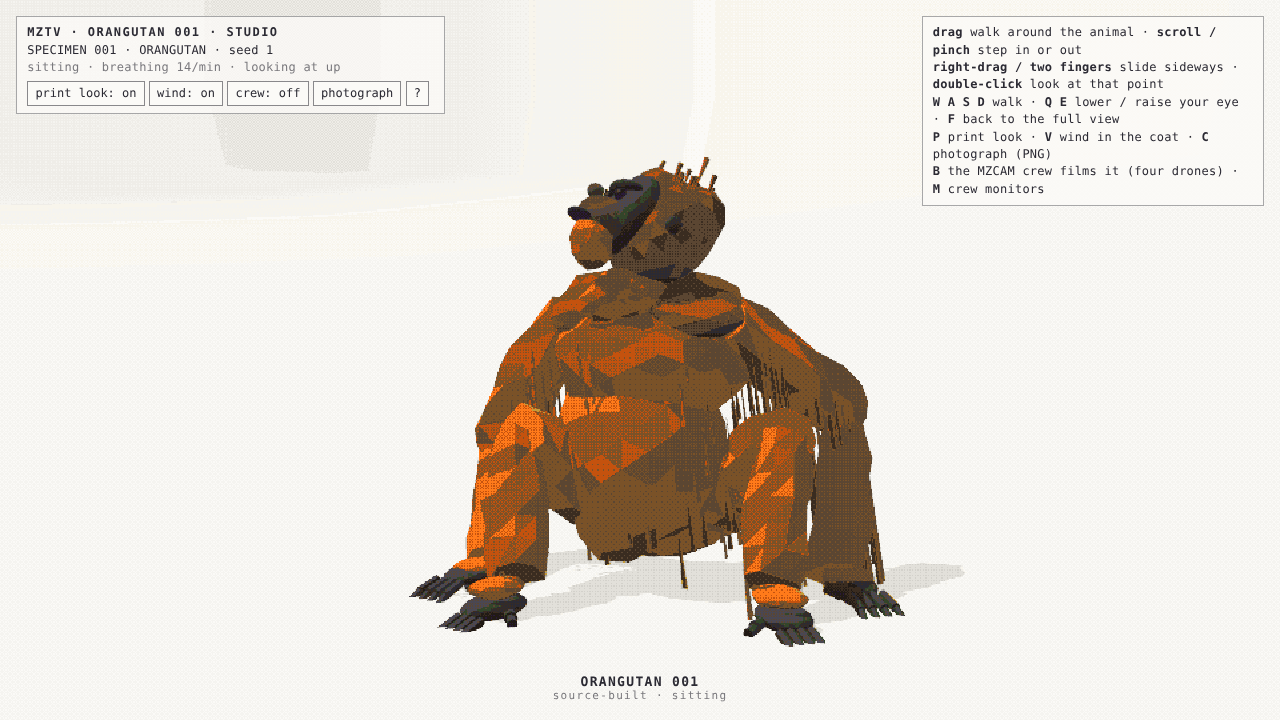
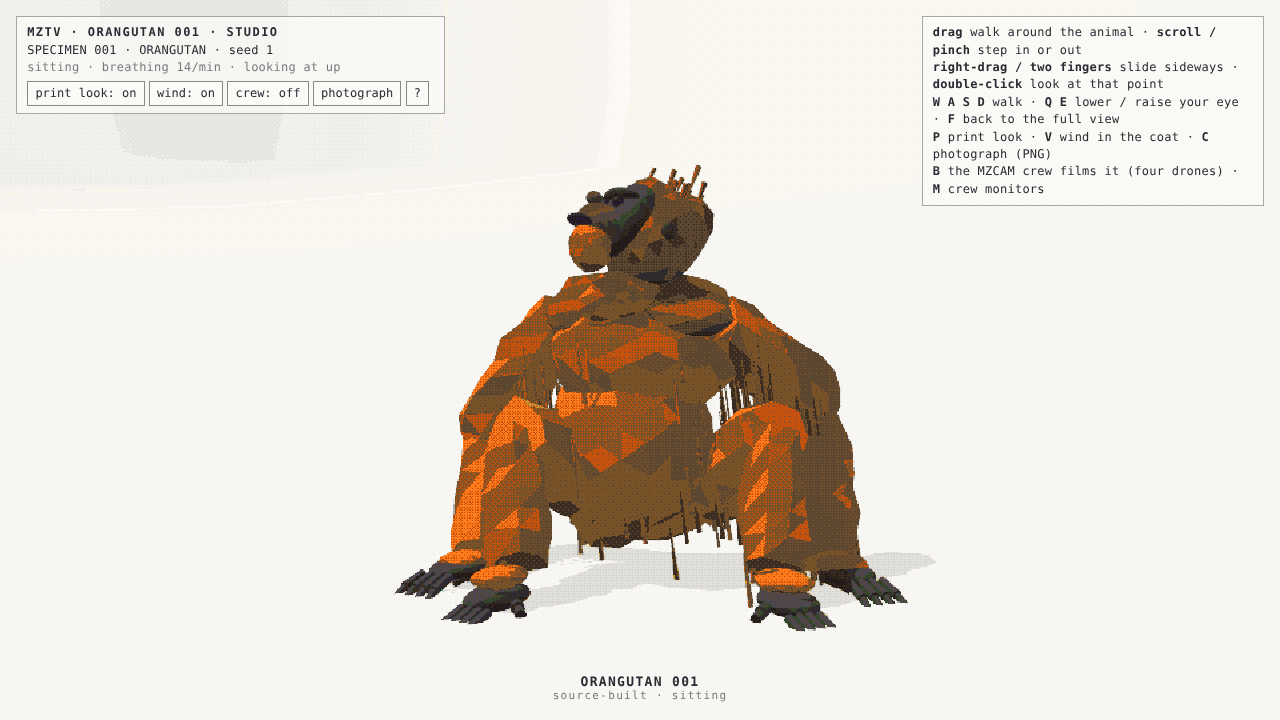
ORANGUTAN 001 · G1.1: calibrate from the #63 reference package v1
Adult female Pongo limb bone lengths (Kralick et al. 2023) with trunk and
pose layout scaled to match; diagonal-sequence walk (Orlikoff et al.
2026); fist/modified-palm hand contacts per step (43/6); inverted feet,
curled toes, heel-first contact. Life test: 5 seeds pass.

Claude-Session: https://claude.ai/code/session_015LV6PSKMcab3YgZeyxbpvG

Changed region(s): [[0.3125, 0.2139, 0.75, 0.9167]]

diff --git a/MZTV/sources/orangutan-001/creature.js b/MZTV/sources/orangutan-001/creature.js
@@ -21,14 +21,19 @@
    Units: metres, Y up, the studio floor at y = 0.
    ===================================================================== */
 
-export const VERSION = 'orangutan-001 · g1 · 2026-11-22';
+export const VERSION = 'orangutan-001 · g1.1 (#63 calibration) · 2026-11-22';
 
-// adult female Bornean orangutan, blockout proportions (cm-level guesses, see README: missing references)
+// adult female Bornean orangutan.
+// Limb segments: adult female Pongo group-mean bone lengths (humerus, radius, femur, tibia), Kralick et al. 2023,
+// via the #63 reference package v1 — osteological proxies for joint-centre lengths (Inferred).
+// Trunk, hands, feet, head: still MZ.Claude estimates (no sourced values yet); the trunk is scaled with the limbs
+// (trunkScale ≈ the limbs' 0.906 reduction from G1) so proportions stay coherent (Inferred).
 export const ANATOMY = {
-  spine: 0.40, shoulderHalf: 0.16, hipHalf: 0.095,
-  upperArm: 0.37, foreArm: 0.35, palm: 0.10, finger: [0.042, 0.034, 0.024], thumb: [0.03, 0.022],
-  thigh: 0.27, shank: 0.25, sole: 0.11, toe: [0.045, 0.035], hallux: [0.028, 0.02],
+  spine: 0.40, shoulderHalf: 0.16, hipHalf: 0.086, trunkScale: 0.9,   // spine / shoulderHalf are in trunk-local units (× trunkScale in the world)
+  upperArm: 0.325, foreArm: 0.328, palm: 0.10, finger: [0.042, 0.034, 0.024], thumb: [0.03, 0.022],
+  thigh: 0.253, shank: 0.218, sole: 0.11, toe: [0.045, 0.035], hallux: [0.028, 0.02],
   wristFist: 0.11, wristPalm: 0.035, ankle: 0.06,
+  palmStepP: 0.12,   // share of walking hand contacts made with a modified palm instead of a fist (43 fist / 6 palm of 49, Orlikoff et al. 2026, #63)
 };
 
 const COL = {
@@ -95,13 +100,13 @@ export function createCreature(THREE, config = {}) {
   const root = new THREE.Group(); root.name = 'ORANGUTAN 001';
   const body = new THREE.Group(); root.add(body);          // heading frame on the floor under the pelvis
   const pelvis = new THREE.Group(); body.add(pelvis);
-  const chest = new THREE.Group(); pelvis.add(chest);
+  const chest = new THREE.Group(); chest.scale.setScalar(A.trunkScale); pelvis.add(chest);
   const neck = new THREE.Group(); neck.position.set(0, A.spine + 0.01, 0.035); chest.add(neck);
   const head = new THREE.Group(); head.position.set(0, 0.05, 0.015); neck.add(head);
   const bodyMeshes = []; const track = o => { bodyMeshes.push(o); return o; };
 
   // trunk (chest frame: origin at the lumbar joint, +Y up the spine, +Z the belly side)
-  track(mesh(shaggy(0.135, 0.085, 0.12, 11, 0.16), M.coat, pelvis, V3(0, 0.02, -0.035)));           // hips / seat
+  track(mesh(shaggy(0.135, 0.085, 0.12, 11, 0.16), M.coat, pelvis, V3(0, 0.02, -0.035))).scale.setScalar(A.trunkScale); // hips / seat
   const belly = track(mesh(shaggy(0.15, 0.16, 0.15, 12, 0.14), M.coat, chest, V3(0, 0.13, 0.035)));  // pot belly
   const thorax = track(mesh(shaggy(0.17, 0.13, 0.125, 13, 0.16), M.coat, chest, V3(0, 0.29, 0.0)));
   track(mesh(shaggy(0.19, 0.075, 0.105, 14, 0.2), M.coatDeep, chest, V3(0, 0.365, -0.025)));        // shoulder hump
@@ -213,10 +218,14 @@ export function createCreature(THREE, config = {}) {
   const left = () => V3(Math.cos(S.heading), 0, -Math.sin(S.heading));
   const toWorld = (lx, ly, lz, pos = S.pos, hd = S.heading) => V3(pos.x + lx * Math.cos(hd) + lz * Math.sin(hd), ly, pos.z - lx * Math.sin(hd) + lz * Math.cos(hd));
   const toLocal = (w) => { const dx = w.x - S.pos.x, dz = w.z - S.pos.z, c = Math.cos(S.heading), s = Math.sin(S.heading); return V3(dx * c - dz * s, w.y, dx * s + dz * c); };
+  // contact layout scales with the limbs (G1 values were set for 0.72 m arms and 0.52 m legs)
+  const AS = (A.upperArm + A.foreArm) / 0.72, LS = (A.thigh + A.shank) / 0.52;
+  const QUAD_PY = 0.44 * LS, SIT_PY = 0.12, VMAX = 0.32 * LS;
   const NEUTRAL = {
-    quad: { arm: (s) => [0.22 * s, A.wristFist, 0.5], leg: (s) => [0.16 * s, A.ankle, -0.02] },
-    sit: { arm: (s) => [0.3 * s, A.wristPalm, 0.1], leg: (s) => [0.2 * s, A.ankle, 0.3] },
+    quad: { arm: (s) => [0.21 * s, A.wristFist, 0.47 * AS], leg: (s) => [0.15 * s, A.ankle, -0.02] },
+    sit: { arm: (s) => [0.29 * s, A.wristPalm, 0.1], leg: (s) => [0.19 * s, A.ankle, 0.3 * LS] },
   };
+  const TRAVEL = 0.3 * LS + 0.02; // how far the body moves over planted feet when rising / sitting
   const neutralLocal = (l, pose) => NEUTRAL[pose][l.kind](l.side);
 
   // ---------- limb controllers ----------
@@ -243,7 +252,7 @@ export function createCreature(THREE, config = {}) {
       const a = w.clone().sub(l.freeP).multiplyScalar(wgt * wgt).addScaledVector(l.freeV, -2 * wgt); l.freeV.addScaledVector(a, dt); l.freeP.addScaledVector(l.freeV, dt); l.p.copy(l.freeP);
     } else l.p.copy(l.plant);
     const want = l.mode === 'swing' ? (l.kind === 'arm' ? (l.nextGrip === 'fist' ? 0.85 : 0.55) : 0.7)
-      : l.grip === 'fist' ? 1 : l.grip === 'palm' ? 0.1 : l.grip === 'inspect' ? 0.25 + 0.5 * (0.5 + 0.5 * Math.sin(S.t * 1.7 + l.side)) : l.grip === 'walk' ? 0.35 : 0.3;
+      : l.grip === 'fist' ? 1 : l.grip === 'palm' ? 0.1 : l.grip === 'inspect' ? 0.25 + 0.5 * (0.5 + 0.5 * Math.sin(S.t * 1.7 + l.side)) : l.grip === 'walk' ? 0.6 : 0.3;
     l.curl.g = want; stepSpring(l.curl, 9, dt);
   }
 
@@ -319,7 +328,7 @@ export function createCreature(THREE, config = {}) {
       if (!S.plan && T('hand', 5, 11)) {
         resetT('hand', 6, 14); const l = rnd() < 0.5 ? L.handL : L.handR;
         if (rnd() < 0.45) { // bring a hand up and look at it
-          freeLimb(l, [0.07 * l.side, 0.52, 0.32], 'inspect', 'inspect');
+          freeLimb(l, [0.07 * l.side, 0.47, 0.32], 'inspect', 'inspect');
           S.plan = { kind: 'inspect', l, until: S.t + rr(3, 5.5) }; S.activity = 'looking at its hand';
           S.gaze.lockOn = null; lookAt(l.p.clone(), 'its own hand', [99, 99]); S.gaze.lockOn = () => l.end.g.getWorldPosition(V3()).add(V3(0, 0.0, 0));
         } else { const n = NEUTRAL.sit.arm(l.side); swing(l, toWorld(n[0] + rr(-0.06, 0.05) * l.side, A.wristPalm, n[2] + rr(-0.08, 0.12)), rr(0.6, 0.9), 0.07, 'palm', 'reposition'); }
@@ -337,12 +346,12 @@ export function createCreature(THREE, config = {}) {
       P.pitch.g = mt < 0.9 ? 0.62 : 0.87; P.chestPitch.g = 0; P.roll.g = 0; P.px.g = 0;
       if (mt > 0.15 && S.plan.hands === 0) { swing(L.handL, toWorld(...NEUTRAL.quad.arm(1)), 0.65, 0.09, 'fist', 'reach forward'); S.plan.hands = 1; }
       if (mt > 0.5 && S.plan.hands === 1) { swing(L.handR, toWorld(...NEUTRAL.quad.arm(-1)), 0.65, 0.09, 'fist', 'reach forward'); S.plan.hands = 2; }
-      if (mt > 1.15) { const k = smoother((mt - 1.15) / 1.5); P.py.g = lerp(0.12, 0.44, k); S.pos.copy(S.plan.start).addScaledVector(fwd(), 0.32 * k); if (!S.plan.moved) { S.plan.moved = true; ev('lift-off', {}); } }
+      if (mt > 1.15) { const k = smoother((mt - 1.15) / 1.5); P.py.g = lerp(SIT_PY, QUAD_PY, k); S.pos.copy(S.plan.start).addScaledVector(fwd(), TRAVEL * k); if (!S.plan.moved) { S.plan.moved = true; ev('lift-off', {}); } }
       if (mt > 2.75) { for (const l of LIMBS) if (l.kind === 'leg') l.grip = 'walk'; setMode('quad', 'up'); }
     }
     // ----- QUADRUPEDAL STANCE -----
     else if (m === 'quad') {
-      Object.assign(gs(), { py: 0.44, pz: 0, pitch: 0.87, chestPitch: 0, roll: 0, px: 0 }); S.activity = 'standing on fists and feet';
+      Object.assign(gs(), { py: QUAD_PY, pz: 0, pitch: 0.87, chestPitch: 0, roll: 0, px: 0 }); S.activity = 'standing on fists and feet';
       if (settle()) return;
       if (!S.gaze.lockOn && S.t > S.gaze.next) { const [p, lb] = studioPoint(); lookAt(p, lb, [0.8, 2.5]); }
       if (mt > (S.plan && S.plan.hold || (S.plan = { hold: rr(1.5, 3.5) }).hold)) {
@@ -355,9 +364,9 @@ export function createCreature(THREE, config = {}) {
     else if (m === 'sitdown') {
       S.activity = 'sitting down';
       if (!S.plan) { S.plan = { start: S.pos.clone(), hands: 0 }; lookAt(toWorld(0, 0.02, 0.6), 'the floor ahead', [3, 3]); ev('sit-down', {}); }
-      const k = smoother(mt / 1.7); P.py.g = lerp(0.44, 0.12, k); P.pitch.g = lerp(0.87, 0.24, smoother(mt / 2.0)); S.pos.copy(S.plan.start).addScaledVector(fwd(), -0.32 * k);
-      if (mt > 0.35 && S.plan.hands === 0) { const n = NEUTRAL.sit.arm(1); swing(L.handL, toWorld(n[0], n[1], n[2], S.plan.start.clone().addScaledVector(fwd(), -0.32), S.heading), 1.0, 0.08, 'palm', 'sit'); S.plan.hands = 1; }
-      if (mt > 0.8 && S.plan.hands === 1) { const n = NEUTRAL.sit.arm(-1); swing(L.handR, toWorld(n[0], n[1], n[2], S.plan.start.clone().addScaledVector(fwd(), -0.32), S.heading), 1.0, 0.08, 'palm', 'sit'); S.plan.hands = 2; }
+      const k = smoother(mt / 1.7); P.py.g = lerp(QUAD_PY, SIT_PY, k); P.pitch.g = lerp(0.87, 0.24, smoother(mt / 2.0)); S.pos.copy(S.plan.start).addScaledVector(fwd(), -TRAVEL * k);
+      if (mt > 0.35 && S.plan.hands === 0) { const n = NEUTRAL.sit.arm(1); swing(L.handL, toWorld(n[0], n[1], n[2], S.plan.start.clone().addScaledVector(fwd(), -TRAVEL), S.heading), 1.0, 0.08, 'palm', 'sit'); S.plan.hands = 1; }
+      if (mt > 0.8 && S.plan.hands === 1) { const n = NEUTRAL.sit.arm(-1); swing(L.handR, toWorld(n[0], n[1], n[2], S.plan.start.clone().addScaledVector(fwd(), -TRAVEL), S.heading), 1.0, 0.08, 'palm', 'sit'); S.plan.hands = 2; }
       if (mt > 2.3) { for (const l of LIMBS) if (l.kind === 'leg') l.grip = 'sit'; setMode('sit', 'down'); S.walked = 0; }
     }
     // safety: a planted limb that would be stretched past its reach is lifted and re-placed rather than dragged
@@ -376,21 +385,23 @@ export function createCreature(THREE, config = {}) {
     let g; for (let i = 0; i < 12; i++) { const a = rr(0, Math.PI * 2), r = rr(0.2, 1.15); g = V3(Math.cos(a) * r, 0, Math.sin(a) * r); if (g.distanceTo(S.pos) > 0.7) break; }
     S.goal = g; S.walked = (S.walked || 0) + 1; S.gait.phase = 0; for (const l of LIMBS) l.gaitSwing = false; setMode('walk', 'goes somewhere'); ev('goal', { x: +g.x.toFixed(2), z: +g.z.toFixed(2) });
   }
-  const TD = { footL: 0, handL: 0.25, footR: 0.5, handR: 0.75 }; // lateral sequence footfalls
+  // diagonal-sequence walk: each hind footfall is followed by the opposite hand (predominant in wild P. pygmaeus, Orlikoff et al. 2026, #63).
+  // The phase offsets themselves are not published; evenly spaced quarters are a placeholder (Inferred).
+  const TD = { footL: 0, handR: 0.25, footR: 0.5, handL: 0.75 };
   function walkTick(dt) {
     const P = S.P, G = S.gait; S.activity = 'walking';
     Object.assign(gs(), { pz: 0, pitch: 0.87, chestPitch: 0 });
     const to = S.goal.clone().sub(S.pos); to.y = 0; const dist = to.length();
     const want = Math.atan2(to.x, to.z), dh = wrapPi(want - S.heading);
     const arriving = dist < 0.12;
-    const vWant = arriving ? 0 : Math.min(0.32, dist * 0.6) * (Math.abs(dh) > 1.2 ? 0.35 : 1);
+    const vWant = arriving ? 0 : Math.min(VMAX, dist * 0.6) * (Math.abs(dh) > 1.2 ? 0.35 : 1);
     S.speed += clamp(vWant - S.speed, -0.35 * dt, 0.3 * dt);
     S.yawRate = clamp(dh * 1.2, -0.45, 0.45) * clamp(S.speed / 0.12 + 0.3, 0, 1);
     S.heading = wrapPi(S.heading + S.yawRate * dt); S.pos.addScaledVector(fwd(), S.speed * dt);
     // gait clock advances with distance travelled, so slow walking keeps each foot down longer
     // the gait clock counts turning as travel too (a limb ~0.45 m from the pivot moves with the turn)
     const ve = S.speed + Math.abs(S.yawRate) * 0.45;
-    const stride = 0.32 * G.T; const dph = (Math.max(ve, arriving ? 0 : 0.06) / stride) * dt; G.phase = (G.phase + dph) % 1;
+    const stride = VMAX * G.T; const dph = (Math.max(ve, arriving ? 0 : 0.06) / stride) * dt; G.phase = (G.phase + dph) % 1;
     const cycleT = stride / Math.max(ve, 0.06), swingT = clamp((1 - G.duty) * cycleT, 0.4, 0.8);
     for (const l of LIMBS) {
       const ph = ((G.phase - TD[l.name]) % 1 + 1) % 1;
@@ -399,13 +410,14 @@ export function createCreature(THREE, config = {}) {
         // place the limb at its neutral contact for where the body will be at mid-stance (forward travel and turning both)
         const tm = Math.min(swingT + G.duty * cycleT * 0.5, 2.5); let hd = S.heading, pos = S.pos.clone();
         for (let k = 0; k < 10; k++) { hd += S.yawRate * tm / 10; pos.addScaledVector(V3(Math.sin(hd), 0, Math.cos(hd)), S.speed * tm / 10); }
-        const n = neutralLocal(l, 'quad');
-        swing(l, toWorld(n[0], n[1], n[2], pos, hd), swingT, l.kind === 'arm' ? 0.08 : 0.06, l.kind === 'arm' ? 'fist' : 'walk', 'step');
+        const n = neutralLocal(l, 'quad'); let grip = l.kind === 'arm' ? 'fist' : 'walk';
+        if (l.kind === 'arm') { if (rnd() < A.palmStepP) { grip = 'palm'; n[1] = A.wristPalm + 0.01; } l.wristExt = rnd() < 0.45 ? 0.15 : 0.4; } // 19 extended / 23 neutral fist wrists (#63)
+        swing(l, toWorld(n[0], n[1], n[2], pos, hd), swingT, l.kind === 'arm' ? 0.08 : 0.06, grip, 'step');
       }
       if (ph < G.duty) l.gaitSwing = false;
     }
     // a slight roll toward whichever side bears weight, a small bob twice a cycle
-    P.roll.g = 0.035 * Math.sin(G.phase * Math.PI * 2) * clamp(S.speed / 0.25, 0, 1); P.py.g = 0.44 + 0.012 * Math.cos(G.phase * Math.PI * 4) * clamp(S.speed / 0.25, 0, 1);
+    P.roll.g = 0.035 * Math.sin(G.phase * Math.PI * 2) * clamp(S.speed / 0.25, 0, 1); P.py.g = QUAD_PY + 0.012 * Math.cos(G.phase * Math.PI * 4) * clamp(S.speed / 0.25, 0, 1);
     S.breath.rate.g = 22;
     if (!S.gaze.lockOn && S.t > S.gaze.next) { if (rnd() < 0.7) lookAt(S.pos.clone().addScaledVector(fwd(), rr(0.9, 1.8)).setY(0.02), 'the way ahead', [0.8, 2]); else { const [p, lb] = studioPoint(); lookAt(p, lb, [0.6, 1.4]); } }
     if (arriving && S.speed < 0.02 && !LIMBS.some(l => l.mode === 'swing')) { S.speed = 0; S.yawRate = 0; setMode('quad', 'arrived'); }
@@ -446,14 +458,16 @@ export function createCreature(THREE, config = {}) {
       // end segment orientation
       let dir, dorsal;
       if (l.kind === 'arm') {
-        if (l.grip === 'fist' || (l.mode === 'swing' && l.nextGrip === 'fist')) { dir = DOWN.clone().addScaledVector(F, 0.35); dorsal = F.clone().addScaledVector(Lf, 0.2 * l.side); }
+        if ((l.mode !== 'swing' && l.grip === 'fist') || (l.mode === 'swing' && l.nextGrip === 'fist')) { dir = DOWN.clone().addScaledVector(F, l.wristExt ?? 0.35); dorsal = F.clone().addScaledVector(Lf, 0.2 * l.side); }
         else if (l.grip === 'inspect') { const toFace = headPivot().sub(r.wrist).normalize(); dir = UP.clone().addScaledVector(F, 0.25).addScaledVector(Lf, -0.3 * l.side); dorsal = toFace.multiplyScalar(-1); }
         else { dir = F.clone().addScaledVector(Lf, 0.55 * l.side).addScaledVector(DOWN, 0.12); dorsal = UP.clone(); }
         if (l.mode === 'swing') dir.lerp(r.wrist.clone().sub(r.elbow).normalize(), 0.5 * Math.sin(Math.PI * clamp((S.t - l.t0) / l.dur, 0, 1)));
       } else {
-        const out = l.grip === 'sit' || S.mode === 'sit' || S.mode === 'sitdown' ? 0.6 : 0.32;
-        dir = F.clone().addScaledVector(Lf, out * l.side).addScaledVector(DOWN, 0.05); dorsal = UP.clone();
-        if (l.mode === 'swing') dir.addScaledVector(DOWN, 0.25 * Math.sin(Math.PI * clamp((S.t - l.t0) / l.dur, 0, 1)));
+        const seated = l.grip === 'sit' || S.mode === 'sit' || S.mode === 'sitdown', out = seated ? 0.6 : 0.32;
+        dir = F.clone().addScaledVector(Lf, out * l.side).addScaledVector(DOWN, 0.05);
+        // up on fists and feet the foot is inverted onto its outer edge (#63: inversion variable, toes curled when visible)
+        dorsal = seated ? UP.clone() : UP.clone().addScaledVector(Lf, 0.4 * l.side);
+        if (l.mode === 'swing') { const k = clamp((S.t - l.t0) / l.dur, 0, 1); dir.addScaledVector(DOWN, 0.25 * Math.sin(Math.PI * Math.min(1, k / 0.6))); dir.addScaledVector(UP, 0.35 * smooth((k - 0.6) / 0.4)); } // toes down off the ground, heel first into contact (34/37 heel strikes, #63)
       }
       const tmp = new THREE.Object3D(); orient(tmp, r.wrist, dir, dorsal);
       const e = l.end.g; e.position.copy(r.wrist); if (!l.q) l.q = tmp.quaternion.clone(); else l.q.slerp(tmp.quaternion, 0.18); e.quaternion.copy(l.q);

diff --git a/MZTV/sources/orangutan-001/README.md b/MZTV/sources/orangutan-001/README.md
@@ -70,6 +70,14 @@ Contract (new, as proposed in #62): `createCreature(THREE, {seed}) → { root, u
    - no page errors
 3. Performance: in software GL, about 10 fps at 960×540 (render 4–10 ms/frame, simulation about 1.5 ms/frame). That is a lower bound, not a GPU figure. Raw-geometry mode: about 85 draw calls and 26k triangles. **Needs a measurement on a real GPU and OBS.**
 
+## G1.1 · calibration from the #63 reference package v1 (MZ.GPT, 2026-11-22)
+- **Limbs:** upper arm 0.325, forearm 0.328, thigh 0.253, shank 0.218 m. These are adult female *Pongo* group-mean bone lengths (Kralick et al. 2023), used as joint-centre proxies (Inferred). The arm-to-leg ratio barely moves (138.5 → 138.6). The trunk, neck and head are scaled 0.9 with the limbs, and contact layout, stance heights, travel and walk speed scale with limb length.
+- **Gait:** now **diagonal-sequence** (hind foot, then the opposite hand), predominant in wild *P. pygmaeus* (Orlikoff et al. 2026). Phase offsets, duty factor and cycle time remain unpublished placeholders.
+- **Hands:** each walking step is a fist about 88% of the time and a modified palm about 12% (43/6 of 49 contacts). The fist wrist is extended or neutral per step (19/23).
+- **Feet:** inverted onto the outer edge when up, toes curled, heel leads into contact (34/37 heel strikes).
+- **Still unsourced** (the package returned null): trunk, hand, foot and head dimensions; posture angles and contacts; gait timing; bout durations and transitions; blink, breathing and eye/head timing; hair lengths and colours; documentary holds.
+- Life test after calibration: all 5 seeds pass; peak reach 0.94–0.96; slip ≈ 1e-16 m; peak limb speed 2.3 m/s.
+
 ## Known gaps and errors (G1)
 - **Missing biological references:** the proportions are estimates. Needed:
   - limb segment lengths and girths for adult female *Pongo pygmaeus*, and for the flanged male (cheek pads and throat sac are not modelled)
